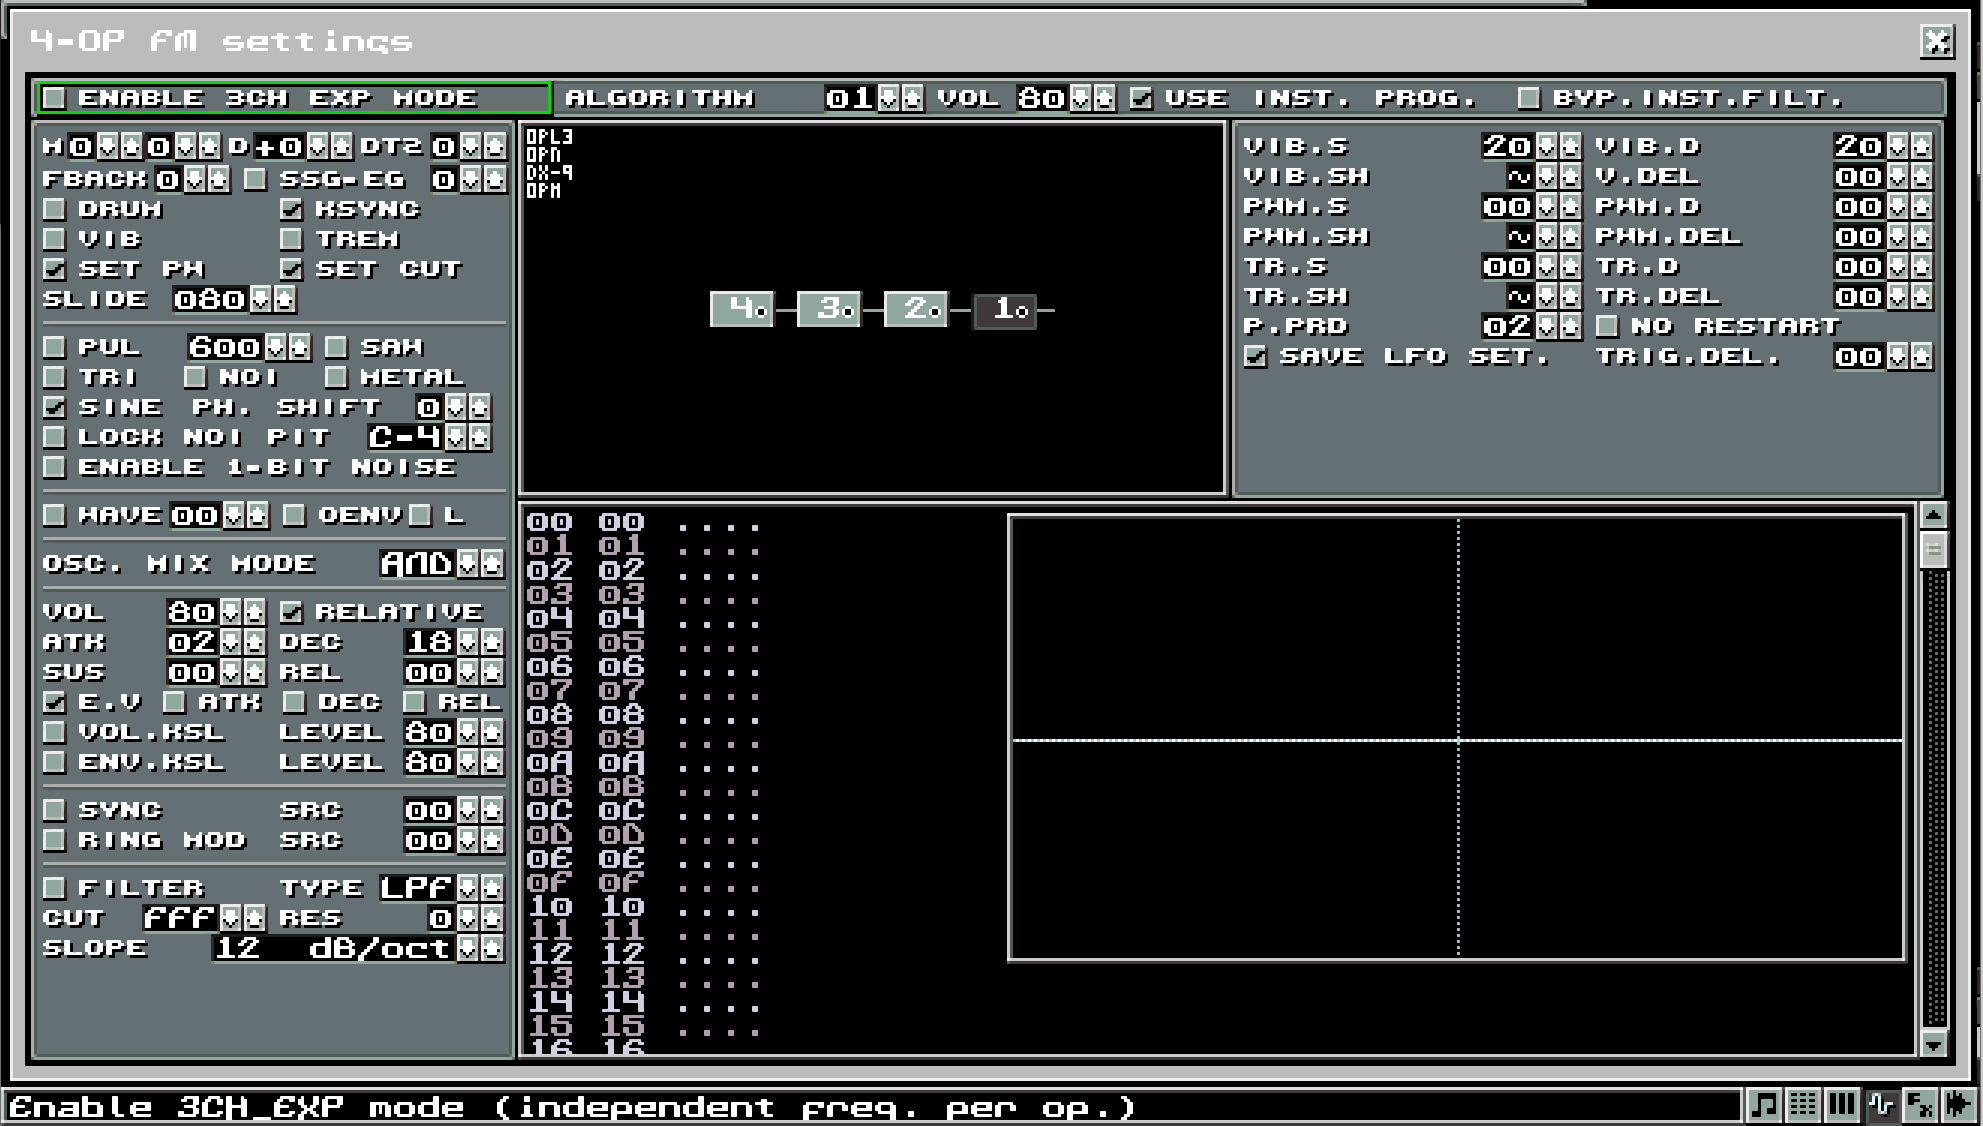
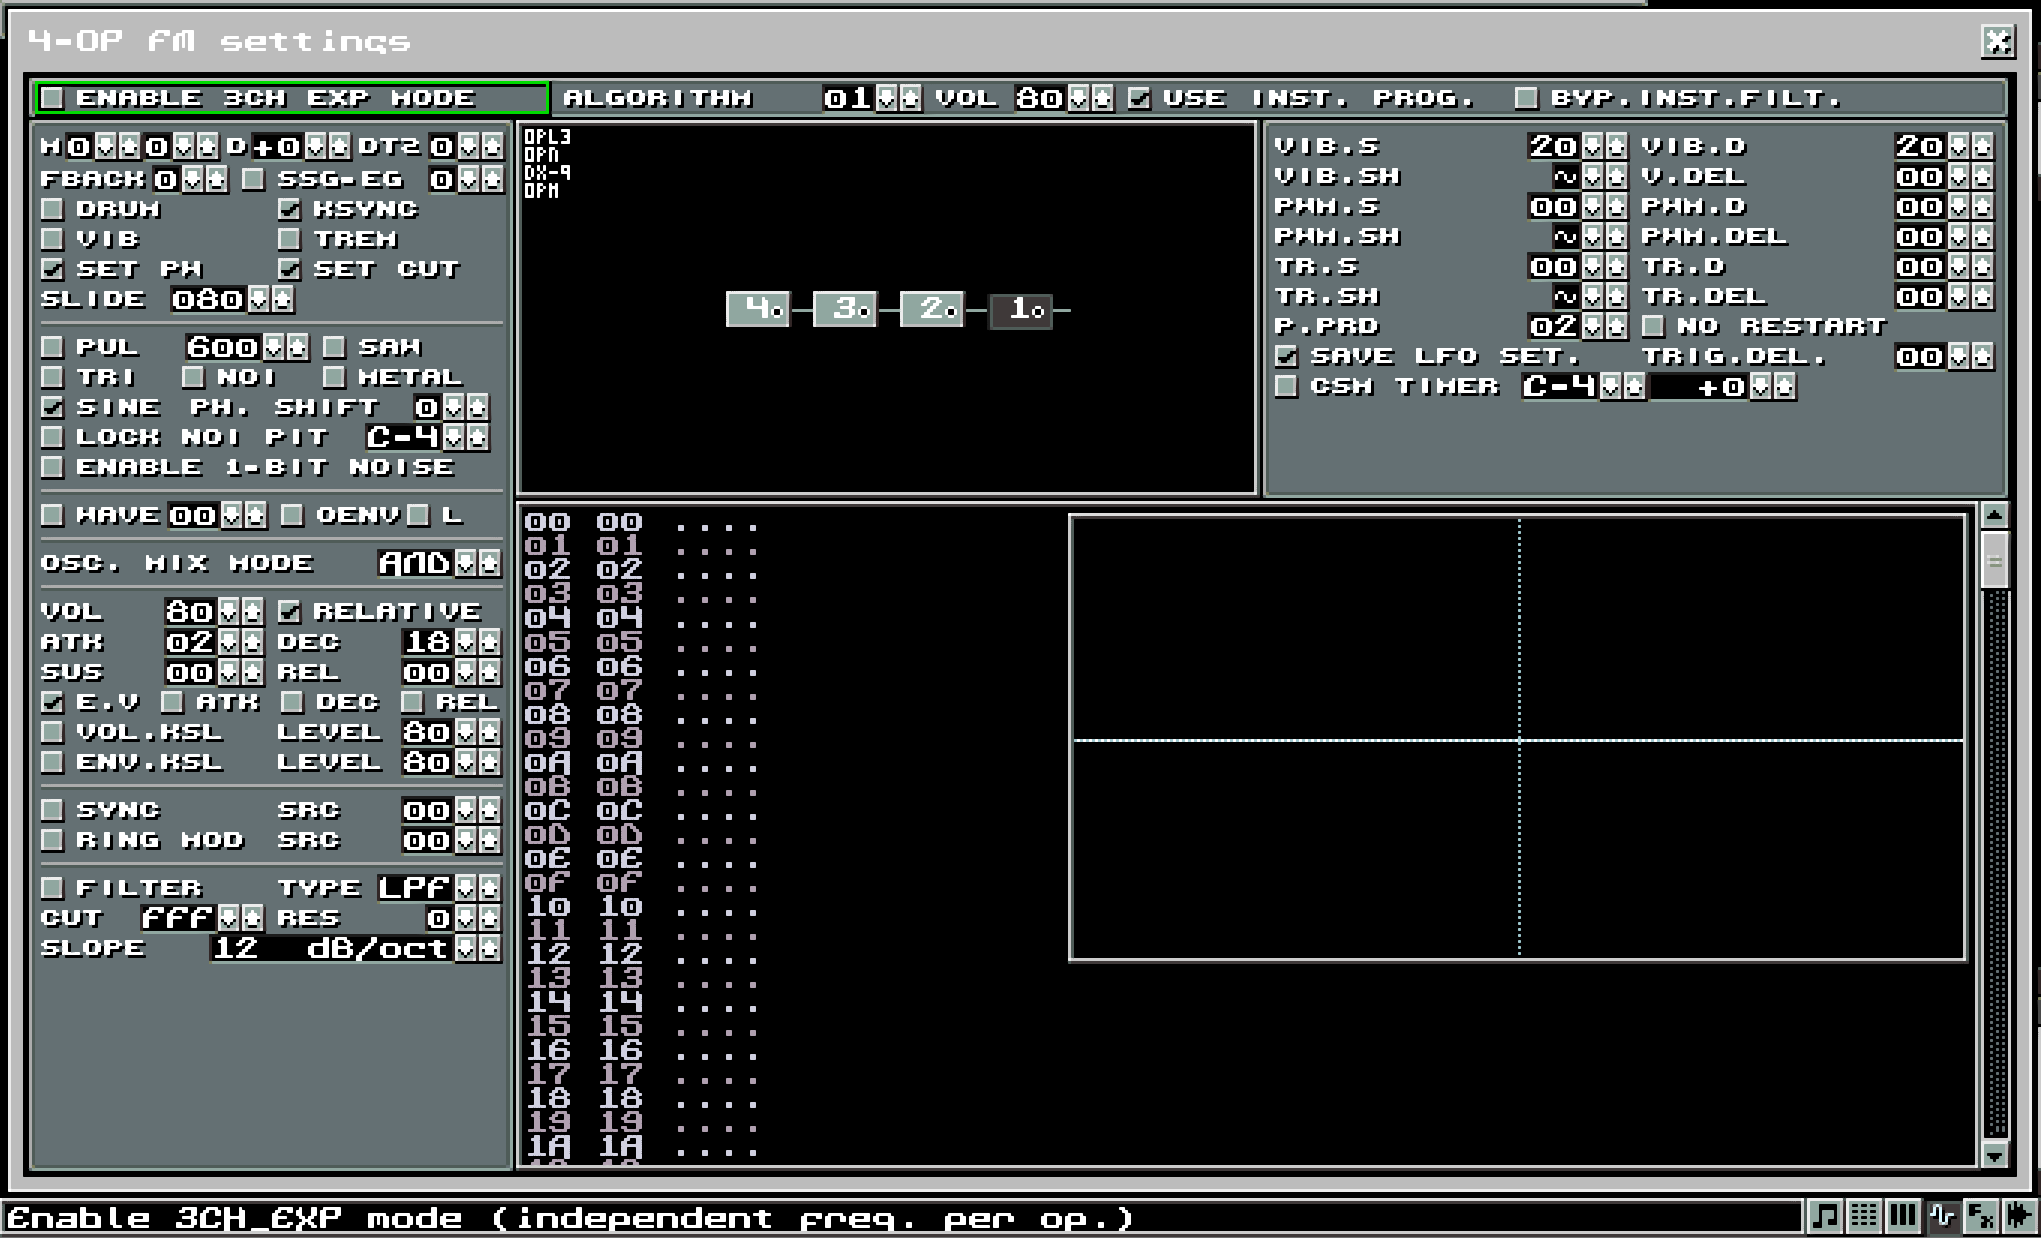
CSM timer

diff --git a/src/theme.c b/src/theme.c
@@ -293,6 +293,60 @@ void load_theme(const char *name)
 	char fullpath[3000] = {0};
 
 	snprintf(fullpath, sizeof(fullpath) - 1, "%s/res/%s", query_resource_directory(), tmpname);
+	
+	
+	
+	
+	/*debug("Loading MIKEYCHAD icons start");
+	
+	if (strcmp(name, "Default") == 0)
+	{
+		char MIKEYCHAD_path[3000] = {0};
+		
+		snprintf(MIKEYCHAD_path, sizeof(MIKEYCHAD_path) - 1, "%s/res/MIKEYCHAD/logic_icons.png", query_resource_directory());
+		
+		debug("fullpath %s", MIKEYCHAD_path);
+		
+		SDL_Surface* loaded = NULL;
+
+		loaded = IMG_Load(MIKEYCHAD_path, 1);
+		
+		debug("loaded %08X", loaded);
+
+		if (loaded->format == NULL)
+		{
+			debug("Loading MIKEYCHAD icons falied");
+			goto proceed;
+		}
+		
+		mused.MIKEYCHAD_logic_icons = calloc(1, sizeof(GfxSurface));
+		
+		Uint32 c = SDL_MapRGB(loaded->format, 255, 0, 255);
+		
+		Uint8 r, g, b;
+		SDL_GetRGB(c, loaded->format, &r, &g, &b);
+
+		if (r == 255 && g == 0 && b == 255)
+		{
+			SDL_SetColorKey(loaded, SDL_TRUE, c);
+		}
+
+	#ifdef USESDL_GPU
+		SDL_Surface *conv = SDL_ConvertSurfaceFormat(loaded, SDL_PIXELFORMAT_ARGB8888, 0);
+		SDL_FreeSurface(loaded);
+		loaded = conv;
+	#endif
+		
+		mused.MIKEYCHAD_logic_icons->surface = loaded;
+		
+		gfx_update_texture(domain, mused.MIKEYCHAD_logic_icons);
+		
+		proceed:;
+	}*/
+	
+	
+	
+	
 
 	debug("Loading theme '%s'", fullpath);
 
@@ -453,6 +507,7 @@ void load_theme(const char *name)
 
 		debug("Theme opened ok");
 	}
+	
 	else
 	{
 		warning("Theme loading failed");

diff --git a/src/view.c b/src/view.c
@@ -932,6 +932,9 @@ void info_line(GfxDomain *dest_surface, const SDL_Rect *dest, const SDL_Event *e
 					"don't restart program on keydown",
 					"save vibrato, PWM and tremolo settings", //wasn't there
 					"trigger delay (in ticks)",
+					"enable CSM timer (phase reset, envelope reset to release)",
+					"CSM timer note",
+					"CSM timer finetune",
 				};
 				
 				static const char * mixmodes[] =
@@ -2748,6 +2751,22 @@ void four_op_menu_view(GfxDomain *dest_surface, const SDL_Rect *dest, const SDL_
 			
 			four_op_text(event, &r, FOUROP_TRIG_DELAY, "TRIG.DEL.", "%02X", MAKEPTR(inst->ops[mused.selected_operator - 1].trigger_delay), 2);
 			update_rect(&view2, &r);
+			
+			r.w = 80;
+			
+			four_op_flags(event, &r, FOUROP_ENABLE_CSM_TIMER, "CSM TIMER", &inst->ops[mused.selected_operator - 1].cydflags, CYD_FM_OP_ENABLE_CSM_TIMER);
+			update_rect(&view2, &r);
+			
+			SDL_Rect note;
+			copy_rect(&note, &r);
+
+			note.w = 40;
+			note.h = 10;
+
+			four_op_text(event, &note, FOUROP_CSM_TIMER_NOTE, "", "%s", notename(inst->ops[mused.selected_operator - 1].CSM_timer_note), 3);
+			note.x += note.w + 2;
+			note.w += 8;
+			four_op_text(event, &note, FOUROP_CSM_TIMER_FINETUNE, "", "%+4d", MAKEPTR(inst->ops[mused.selected_operator - 1].CSM_timer_finetune), 4);
 		}
 	}
 }

diff --git a/src/event.c b/src/event.c
@@ -853,8 +853,9 @@ void four_op_add_param(int a)
 	{
 		switch (mused.fourop_selected_param)
 		{
-			case FOUROP_BASENOTE: a *= 12; break;
-			case FOUROP_FIXED_NOISE_BASE_NOTE: a *= 12; break;
+			case FOUROP_BASENOTE: 
+			case FOUROP_FIXED_NOISE_BASE_NOTE: 
+			case FOUROP_CSM_TIMER_NOTE: a *= 12; break;
 			
 			default: a *= 16; break;
 		}
@@ -1311,7 +1312,7 @@ void four_op_add_param(int a)
 		{
 			int x = (Uint8)(i->ops[mused.selected_operator - 1].ring_mod + 1);
 			clamp(x, a, 0, MUS_MAX_CHANNELS);
-			i->ops[mused.selected_operator - 1].ring_mod = x-1;
+			i->ops[mused.selected_operator - 1].ring_mod = x - 1;
 		}
 		break;
 
@@ -1354,6 +1355,24 @@ void four_op_add_param(int a)
 		case FOUROP_TRIG_DELAY:
 
 		clamp(i->ops[mused.selected_operator - 1].trigger_delay, a, 0, 0xFF);
+
+		break;
+		
+		case FOUROP_ENABLE_CSM_TIMER:
+
+		flipbit(i->ops[mused.selected_operator - 1].cydflags, CYD_FM_OP_ENABLE_CSM_TIMER);
+
+		break;
+		
+		case FOUROP_CSM_TIMER_NOTE:
+		
+		clamp(i->ops[mused.selected_operator - 1].CSM_timer_note, a, 0, FREQ_TAB_SIZE - 1);
+
+		break;
+		
+		case FOUROP_CSM_TIMER_FINETUNE:
+		
+		clamp(i->ops[mused.selected_operator - 1].CSM_timer_finetune, a, -128, 127);
 
 		break;
 

diff --git a/src/diskop.c b/src/diskop.c
@@ -635,6 +635,12 @@ static void save_instrument_inner(SDL_RWops *f, MusInstrument *inst, const CydWa
 				
 				SDL_RWwrite(f, &inst->ops[i].trigger_delay, sizeof(inst->ops[i].trigger_delay), 1);
 				
+				if(inst->ops[i].cydflags & CYD_FM_OP_ENABLE_CSM_TIMER)
+				{
+					SDL_RWwrite(f, &inst->ops[i].CSM_timer_note, sizeof(inst->ops[i].CSM_timer_note), 1);
+					SDL_RWwrite(f, &inst->ops[i].CSM_timer_finetune, sizeof(inst->ops[i].CSM_timer_finetune), 1);
+				}
+				
 				if(inst->ops[i].cydflags & CYD_FM_OP_ENABLE_FILTER)
 				{
 					temp16 = inst->ops[i].cutoff | (inst->ops[i].resonance << 12);

diff --git a/src/mused.c b/src/mused.c
@@ -380,6 +380,8 @@ void deinit()
 	if (mused.mouse_cursor_surface) gfx_free_surface(mused.mouse_cursor_surface);
 	if (mused.mouse_cursor) SDL_FreeCursor(mused.mouse_cursor);
 	if (mused.icon_surface) gfx_free_surface(mused.icon_surface);
+	
+	if (mused.MIKEYCHAD_logic_icons) gfx_free_surface(mused.MIKEYCHAD_logic_icons);
 
 	font_destroy(&mused.smallfont);
 	font_destroy(&mused.largefont);

diff --git a/src/mused.h b/src/mused.h
@@ -196,6 +196,8 @@ typedef struct
 	GfxSurface *mouse_cursor_surface;
 	GfxSurface *icon_surface;
 	
+	GfxSurface *MIKEYCHAD_logic_icons; //for XOR, XNOR, NAND, NOR elements custom icons
+	
 	/* for menu */
 	Font menufont, menufont_selected, headerfont, headerfont_selected, shortcutfont, shortcutfont_selected, buttonfont;
 	

diff --git a/src/event.h b/src/event.h
@@ -345,6 +345,10 @@ enum
 	FOUROP_SAVE_LFO_SETTINGS,
 	
 	FOUROP_TRIG_DELAY,
+	
+	FOUROP_ENABLE_CSM_TIMER,
+	FOUROP_CSM_TIMER_NOTE,
+	FOUROP_CSM_TIMER_FINETUNE,
 	/*----------*/
 	FOUROP_PARAMS
 };
